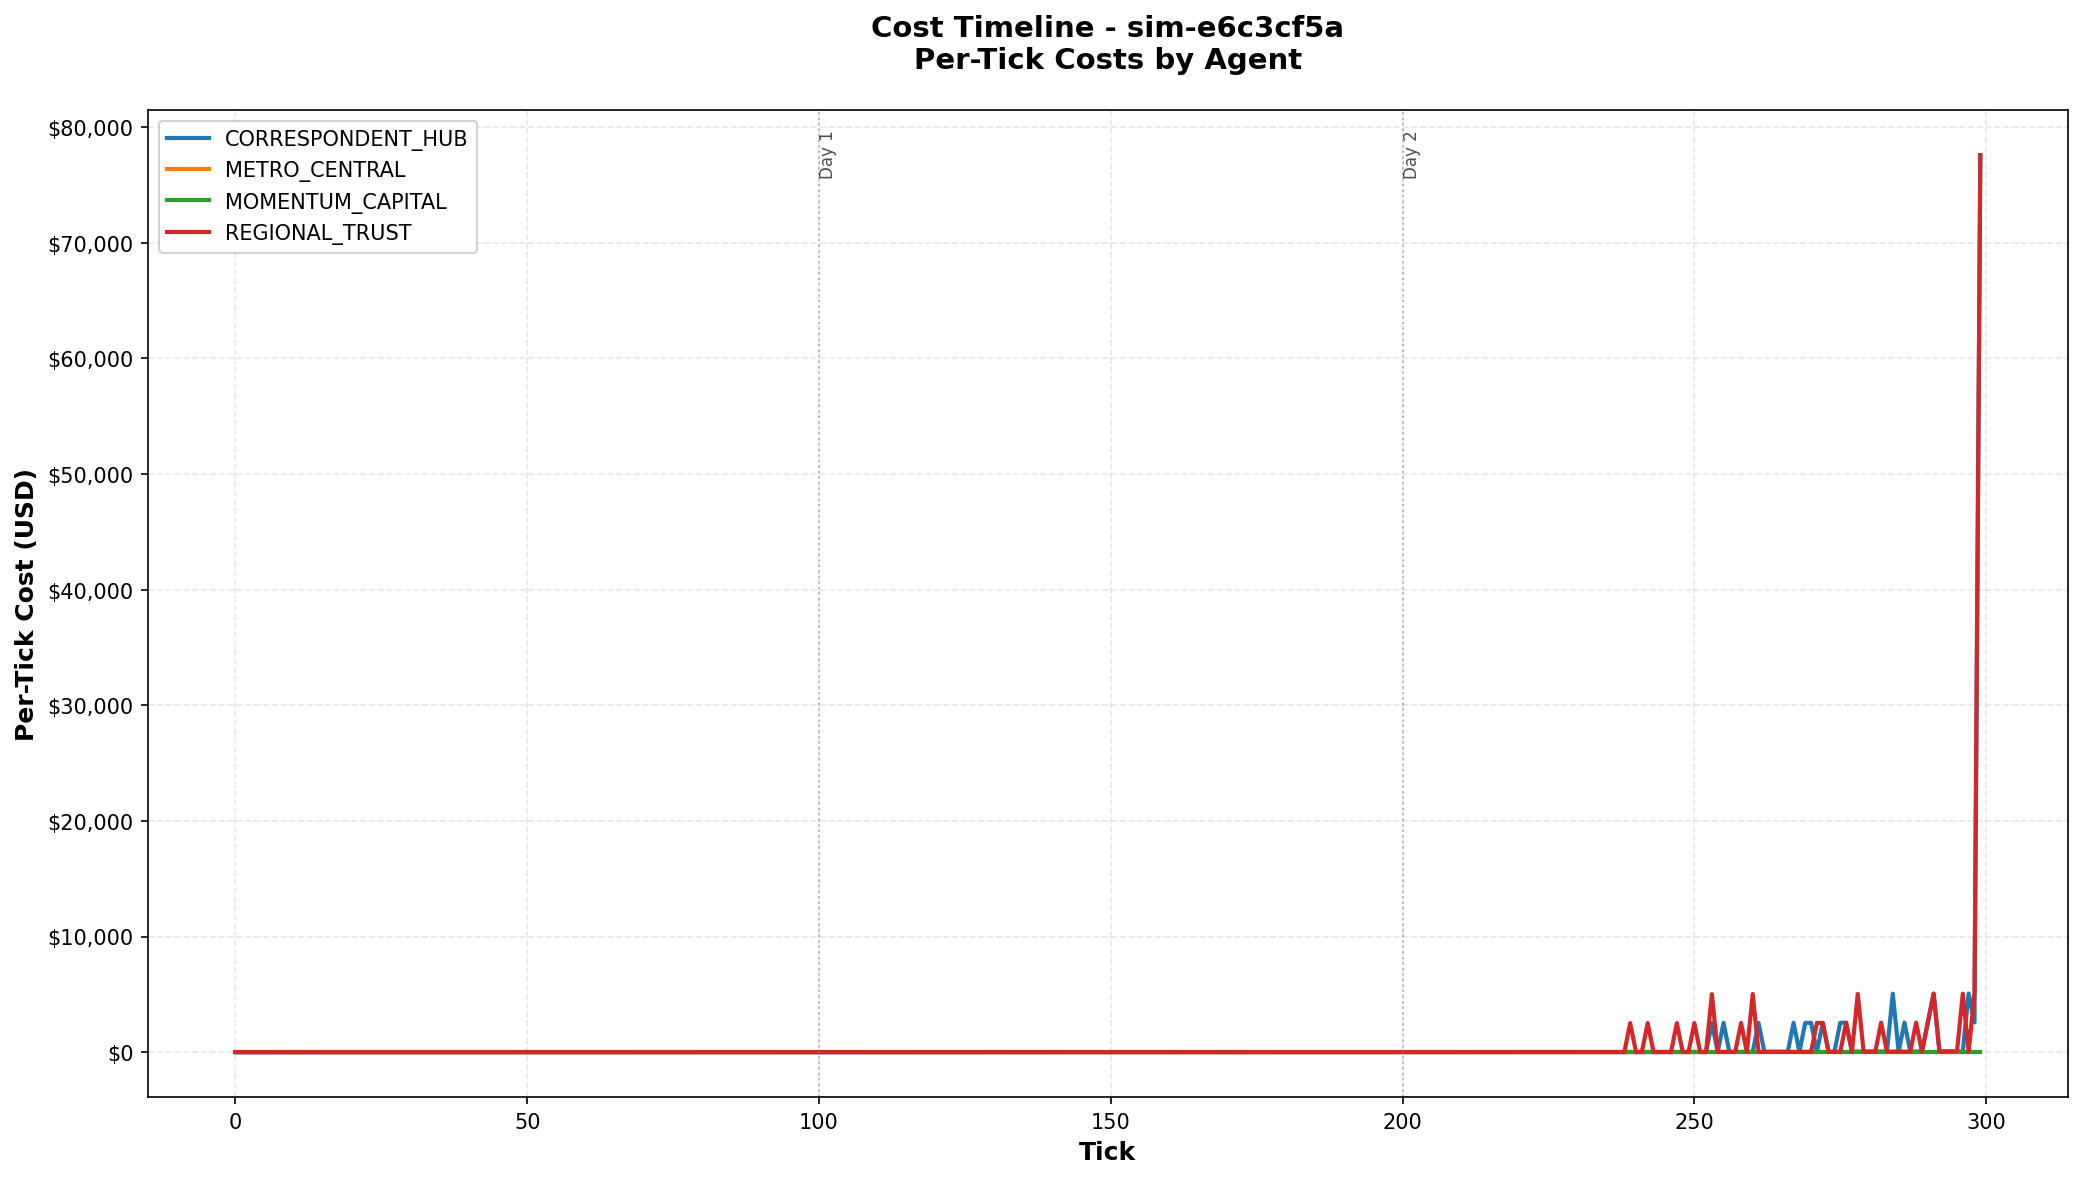
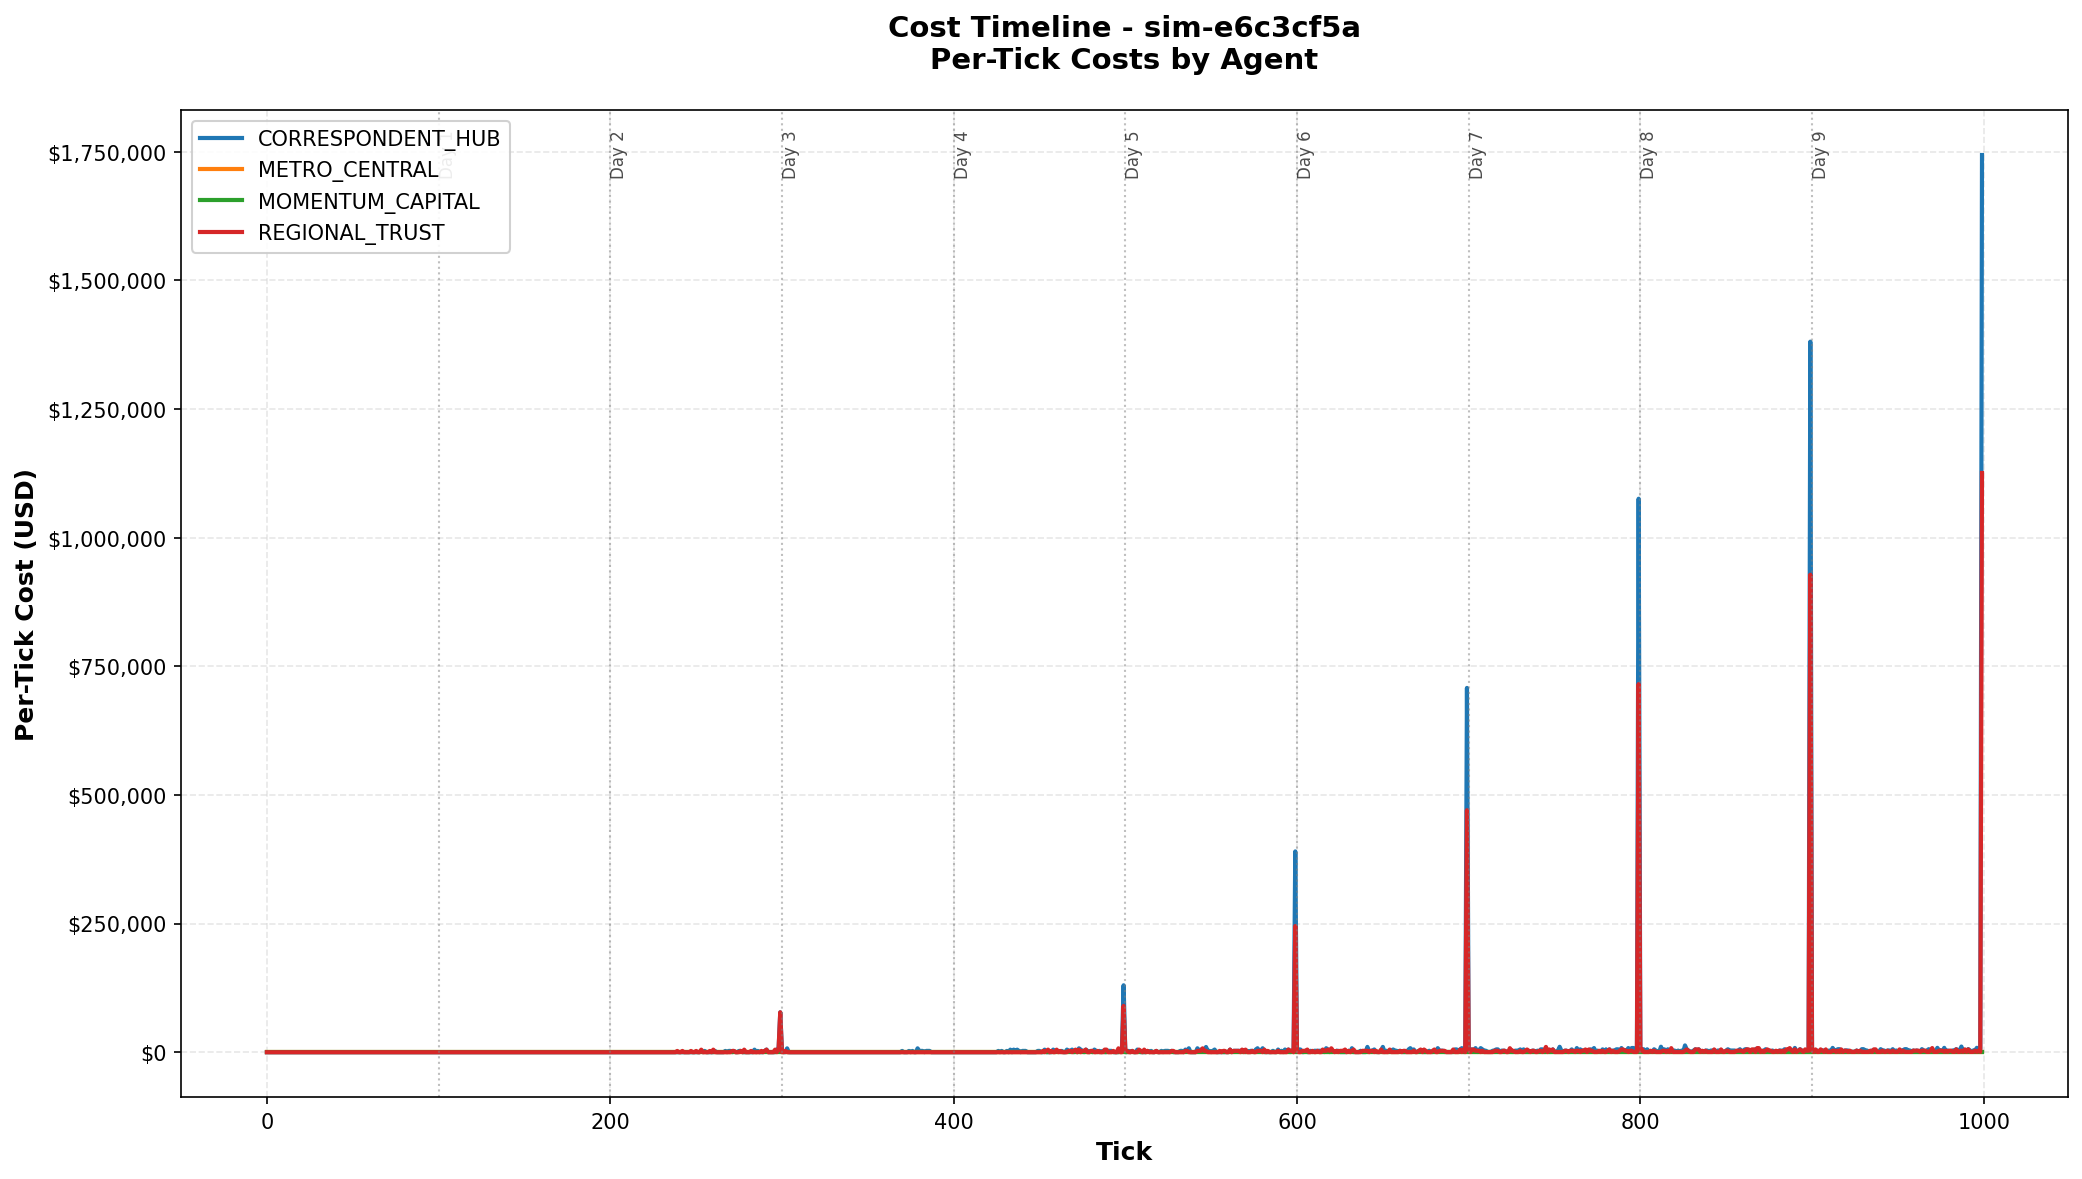
fix: Correct max_tick calculation to use num_days instead of hardcoded default
Bug: db.py was looking for non-existent 'ticks_executed' field in simulation
summary and falling back to hardcoded default of 'ticks_per_day * 3',
causing 10-day simulations to only display first 300 ticks.

Fix: Calculate max_tick from num_days and ticks_per_day fields that actually
exist in the simulations table.

Impact:
- 10-day crisis resolution charts now show full 1000 ticks (0-999)
- Total costs correctly show $11,790,276.81 vs incorrect $263,814.73
- Visible intervention effects at day 4 (ticks 300-399)
- Post-intervention stabilization visible in days 5-10

Regenerated charts:
- crisis_resolution_accumulated.png (now 118K, shows full 10 days)
- crisis_resolution_per_tick.png (now 119K, shows full 10 days)

diff --git a/api/payment_simulator/cli/commands/db.py b/api/payment_simulator/cli/commands/db.py
@@ -516,7 +516,8 @@ def db_costs(
                 tick_agent_costs[eod_tick][agent_id_event] += eod_penalty
 
         # Get max tick from simulation
-        max_tick = summary.get("ticks_executed", ticks_per_day * 3) - 1
+        num_days = summary.get("num_days", 3)
+        max_tick = (ticks_per_day * num_days) - 1
 
         # Build accumulated costs for all ticks
         tick_costs = []
